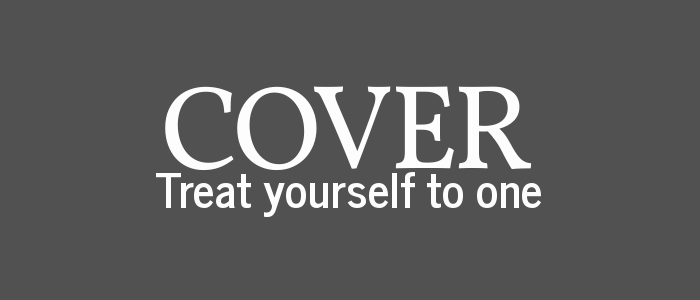
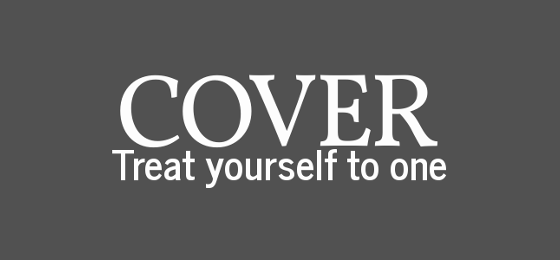
change large cover dimensions to 560x260

Changed region(s): [[0.1821, 0.2769, 0.8196, 0.7385], [0.4857, 0.5231, 0.5161, 0.5538]]

diff --git a/templates/macros/covers.html b/templates/macros/covers.html
@@ -1,4 +1,4 @@
-{% macro album_large(album, width = 620, height = 270) %}
+{% macro album_large(album, width = 560, height = 260) %}
     {{ _album(album, width, height, "img-rounded", "cover-large", "large") }}
 {% endmacro %}
 
@@ -25,7 +25,7 @@
     </span>
 {% endmacro %}
 
-{% macro artist_large(artist, width = 620, height = 270) %}
+{% macro artist_large(artist, width = 560, height = 260) %}
     {{ _artist(artist, width, height, "img-rounded", "cover-large", "large") }}
 {% endmacro %}
 

diff --git a/public_static/styles/components.less b/public_static/styles/components.less
@@ -1,8 +1,8 @@
 @album-width: 220px;
 @album-height: @album-width;
 
-@album-large-width: 620px;
-@album-large-height: 270px;
+@album-large-width: 560px;
+@album-large-height: 260px;
 
 .artists,
 .albums {
@@ -204,6 +204,7 @@
         height: @album-large-height;
 
         img {
+            background-position: 0 0;
             background-image: url(/static/images/cover_large_placeholder.png);
 
             width: @album-large-width;

diff --git a/opmuse/covers.py b/opmuse/covers.py
@@ -25,8 +25,8 @@ class Covers:
     DEFAULT_WIDTH = 220
     DEFAULT_HEIGHT = 220
     DEFAULT_GRAVITY = 'center'
-    LARGE_WIDTH = 620
-    LARGE_HEIGHT = 270
+    LARGE_WIDTH = 560
+    LARGE_HEIGHT = 260
     LARGE_GRAVITY = 'north'
 
     def refresh(self, type, slug):
